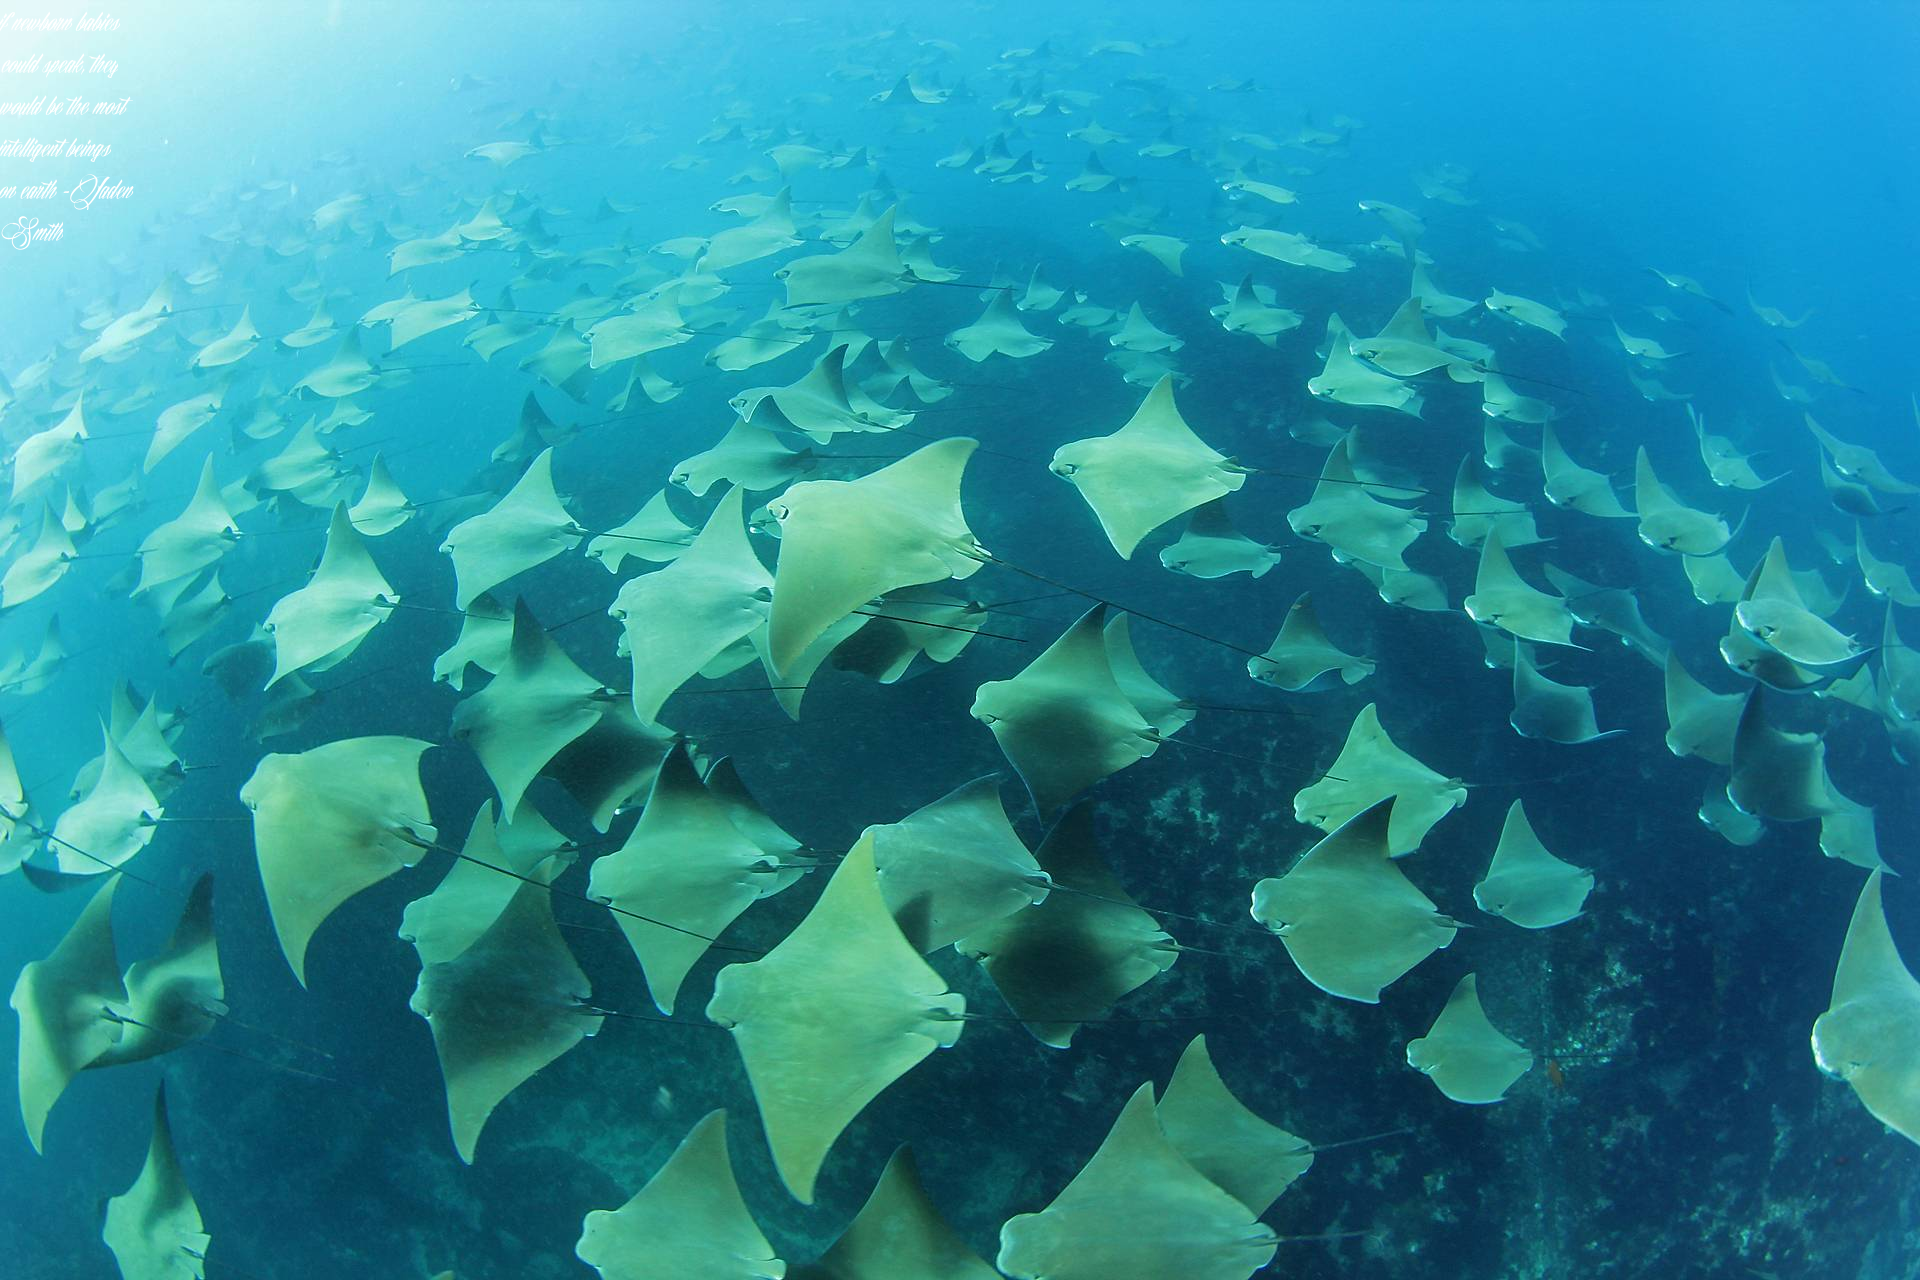
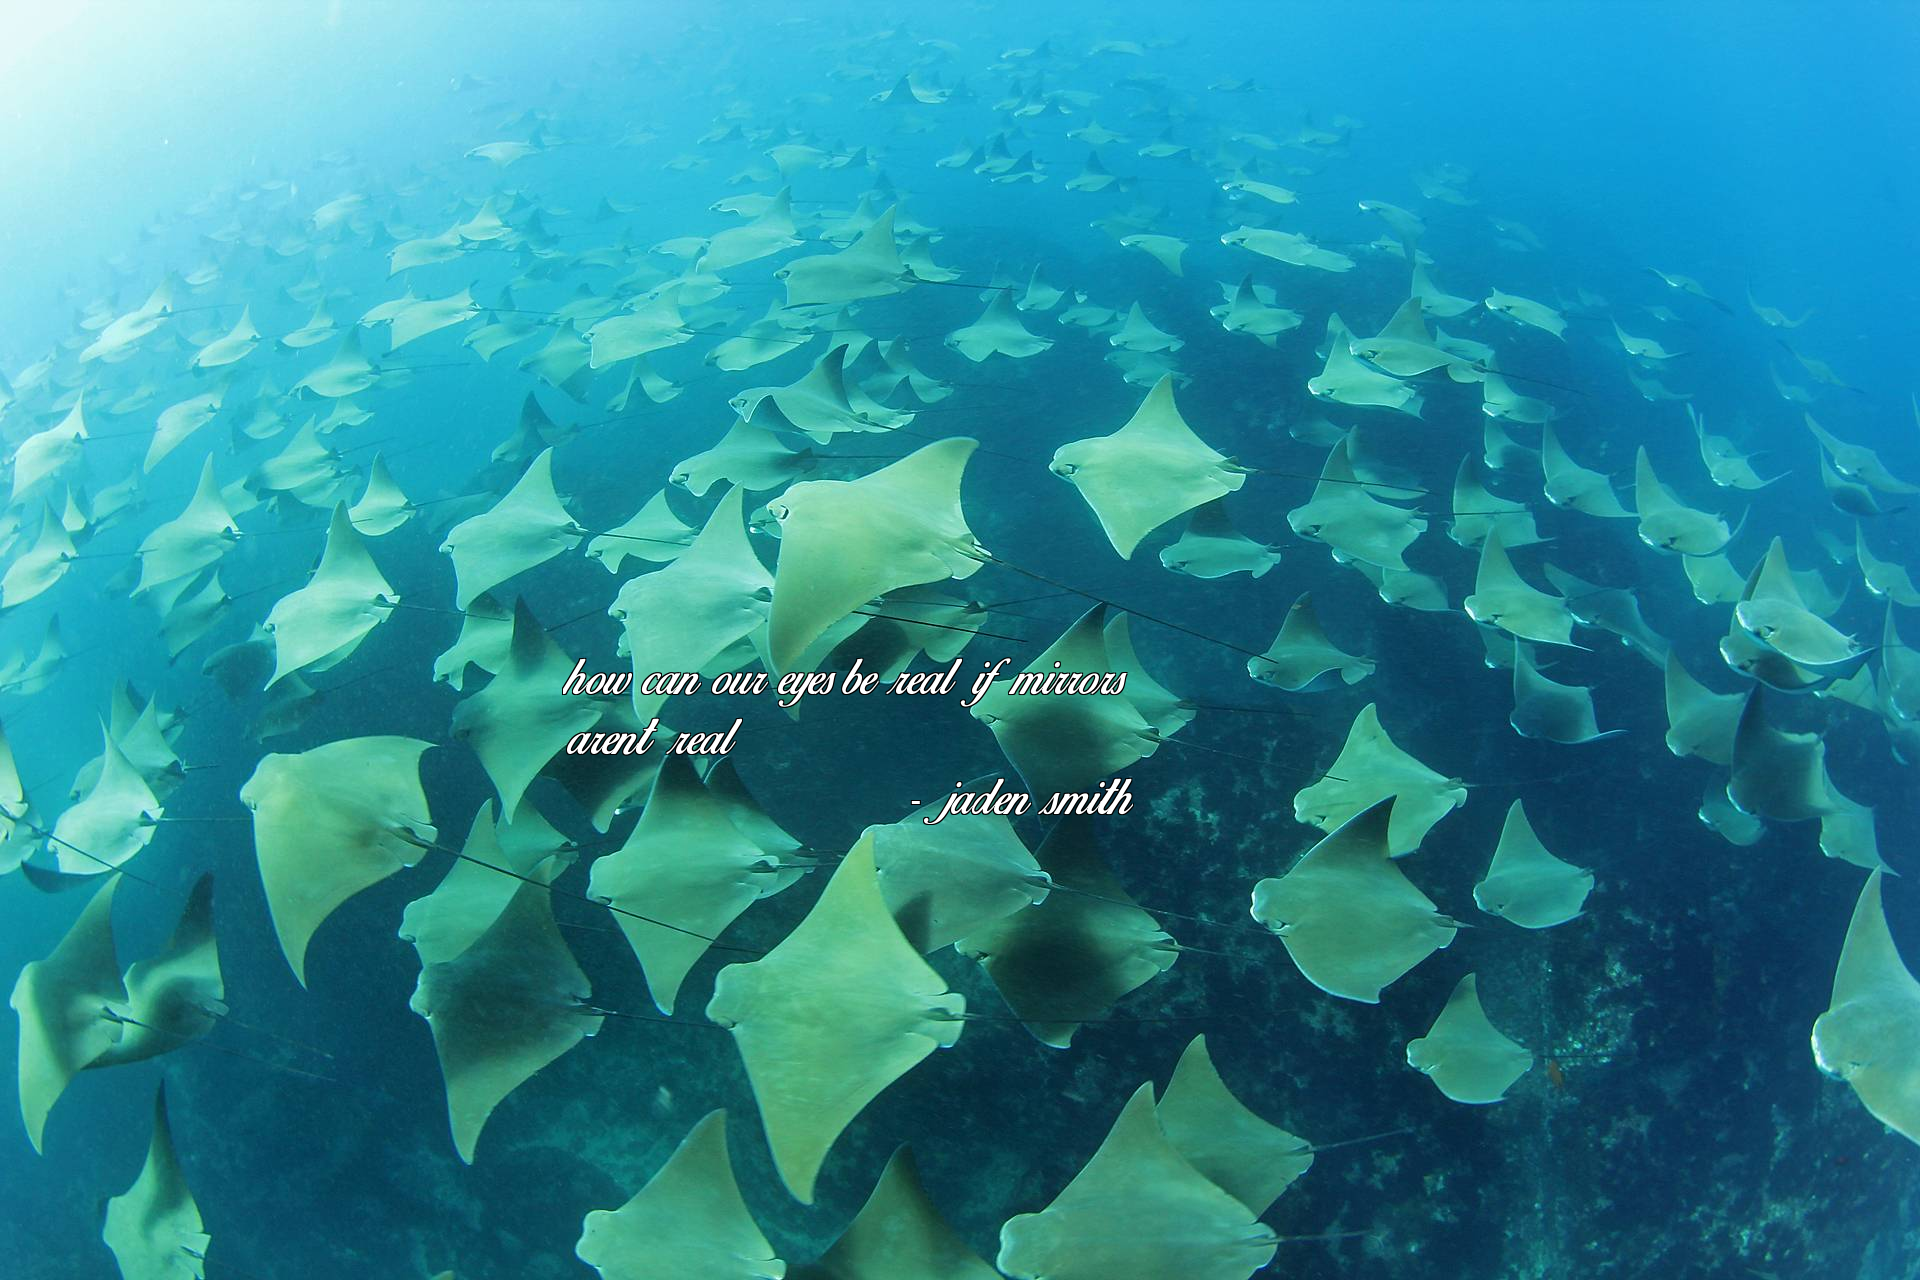
update addtext, remove font

Changed region(s): [[0.2812, 0.5, 0.5938, 0.5938], [0.0, 0.0, 0.0625, 0.1875], [0.4688, 0.5938, 0.5938, 0.6562]]

diff --git a/nocontext/addText.py b/nocontext/addText.py
@@ -4,34 +4,63 @@
 
 import urllib
 import cStringIO
-from PIL import Image
-from PIL import ImageFont
-from PIL import ImageDraw 
+from PIL import Image, ImageFont, ImageDraw, ImageFilter 
+from os import listdir
+from os.path import isfile, join
+from random import randint
+import textwrap
 
 def addText(text, author, imgurl):
+	lines = textwrap.wrap(text, width = 40)
+
     # Get an image
-    imgFile = cStringIO.StringIO(urllib.urlopen('http://i.imgur.com/vzD8A.jpg').read())
+	imgFile = cStringIO.StringIO(urllib.urlopen('http://i.imgur.com/vzD8A.jpg').read())
 
 	# Get fonts and pick a random one
-	ttffiles = [ f for f in listdir('static/fonts') if isfile(join('static/fonts',f)) ]    
-	randfile = randint(0,len(ttffiles))
+	ttffiles = [f for f in listdir('static/fonts') if isfile(join('static/fonts',f))]
+	randfile = randint(0,len(ttffiles)-1)
 
 	# Get an image
-	imgFile = cStringIO.StringIO(urllib.urlopen('http://i.imgur.com/vzD8A.jpg').read())
+	imgFile = cStringIO.StringIO(urllib.urlopen(imgurl).read())
 
 	img = Image.open(imgFile)
 	# Draw image and add the text 
 	draw = ImageDraw.Draw(img)
 	fonturlf='static/fonts/' + ttffiles[randfile]
-	font = ImageFont.truetype(fonturlf, 72)
+	fontsize = 50
+	font = ImageFont.truetype(fonturlf, fontsize)
 
 	y_text = 0
+	i=0
 	for line in lines:
+		if i == 0:
+			[width0,height0]=font.getsize(line)
+			[imgwidth,imgheight] = img.size
+			if width0 > imgwidth:
+				while width0 > imgwidth:
+					fontsize = fontsize - 5
+					font = ImageFont.truetype(fonturlf, fontsize)
+					[width0,height0]=font.getsize(line)
+					x=randint(0,imgwidth-width0)
+					y=randint(0,imgheight-(height0*(len(lines)+1)))
+			else:
+				x=randint(0,imgwidth-width0)
+				y=randint(0,imgheight-(height0*(len(lines)+1)))
 		[width, height] = font.getsize(line)
-		draw.text((0, y_text), line, (255,255,255), font=font)
-		y_text += height
+		draw.text((x-1, y-1), line, (0,0,0), font=font)
+		draw.text((x+1, y-1), line, (0,0,0), font=font)
+		draw.text((x-1, y+1), line, (0,0,0), font=font)
+		draw.text((x+1, y+1), line, (0,0,0), font=font)
+		draw.text((x, y), line, (255,255,255), font=font)
+		y += height
+		i = i + 1
 	author = '-' + author
 	[widthauthor, height] = font.getsize(author)
-	draw.text((width-widthauthor,y_text), author, (255,255,255), font=font)
+	x = x+width0-widthauthor
+	draw.text((x-1, y-1), author, (0,0,0), font=font)
+	draw.text((x+1, y-1), author, (0,0,0), font=font)
+	draw.text((x-1, y+1), author, (0,0,0), font=font)
+	draw.text((x+1, y+1), author, (0,0,0), font=font)
+	draw.text((x,y), author, (255,255,255), font=font)
 	
 	img.save('static/img/sample-out.png')
